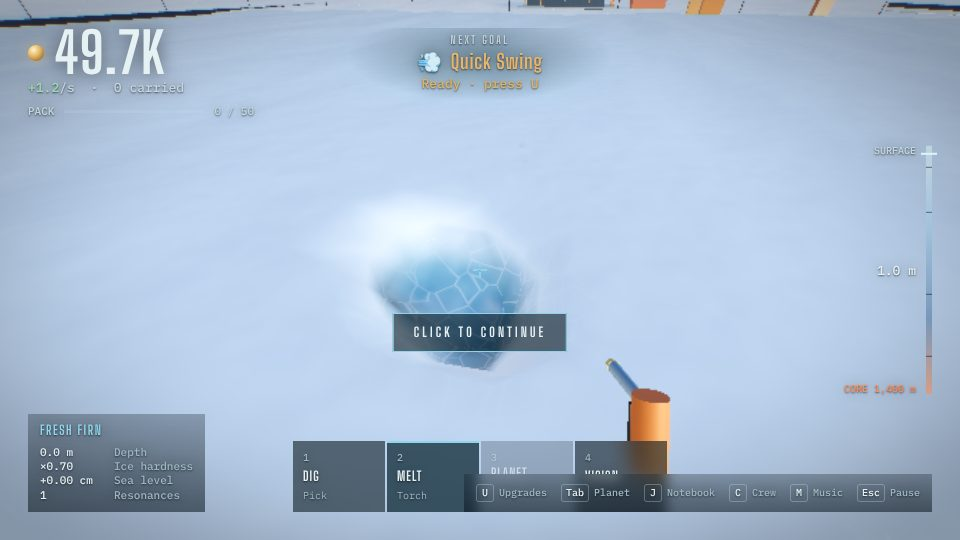
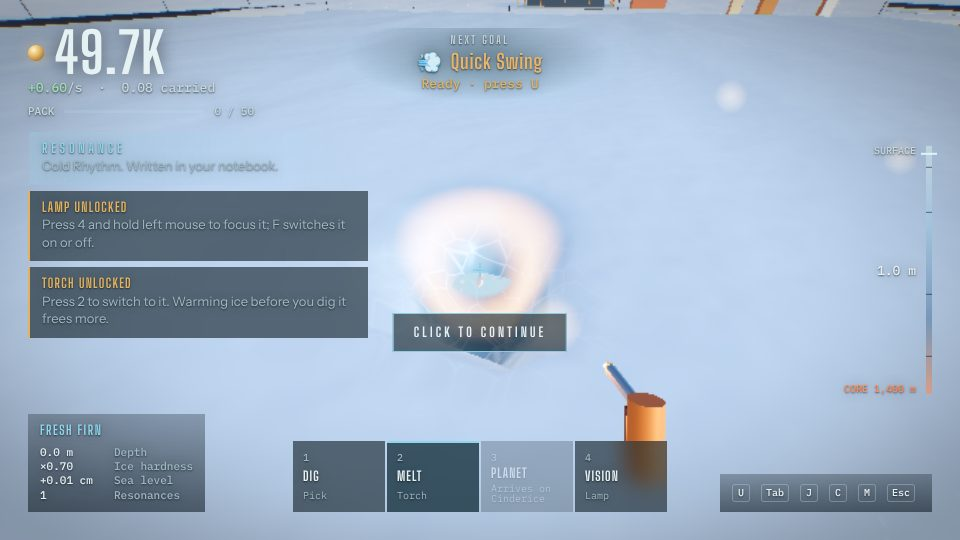
Batch 1 playtest: 27/27 checks pass, no console errors
Screenshots, report and save fixture from the full Playwright run (solo and
two-tab co-op). Sim report regenerated.

Claude-Session: https://claude.ai/code/session_01MxbM6ZowMYQfN2KpXXF2yF

diff --git a/incremental/tools/shots/batch1/report.md b/incremental/tools/shots/batch1/report.md
@@ -1,0 +1,35 @@
+# Playtest batch1
+
+Preset low, 960x540, software WebGL. 27/27 checks passed.
+
+- PASS Digging removes ice and fills the pack ({"vol":"0.96","carried":{"count":0,"value":0,"ids":[]}})
+- PASS Banking at the lift beacon credits the vault (coins 0 -> 3.1841650168195623)
+- PASS First upgrade affordable within seconds of digging (coins 3.1841650168195623)
+- PASS Buying from the upgrade tree (1 bought)
+- PASS Torch melts ice and leaves meltwater ({"melted":"0.424","pools":1,"down":[],"locked":true,"block":false,"menu":null,"view":"fp","hit":true,"fam":1,"tier":1})
+- PASS Crater depth tracked (23.5 m)
+- PASS Milestones pay out
+- PASS Time capsule opens when freed and reached
+- PASS Golden Needle found
+- PASS Resonance logged in the notebook
+- PASS Screen opens: collections
+- PASS Screen opens: crew
+- PASS Screen opens: music
+- PASS Planet view opens
+- PASS Planet view returns to first person
+- PASS Performance overlay shows frame time (12 FPS · 86.6 ms (worst 2187.3) · 146 calls · 483k tris)
+- PASS Save code exports (1650 chars)
+- PASS Save code imports
+- PASS Offline summary shown
+- PASS Crew created with a room code (X4HTNZ)
+- PASS Join link carries the code (http://localhost:8123/index.html?join=X4HTNZ&coopdebug=1)
+- PASS Member joins through the link
+- PASS Dig edits sync host -> member
+- PASS Member banking credits the shared vault (0 -> 500)
+- PASS Crewmate avatar appears
+- PASS Member keeps playing when the host leaves
+- PASS Member resumes as host from their copy
+
+## Console errors
+
+None.
